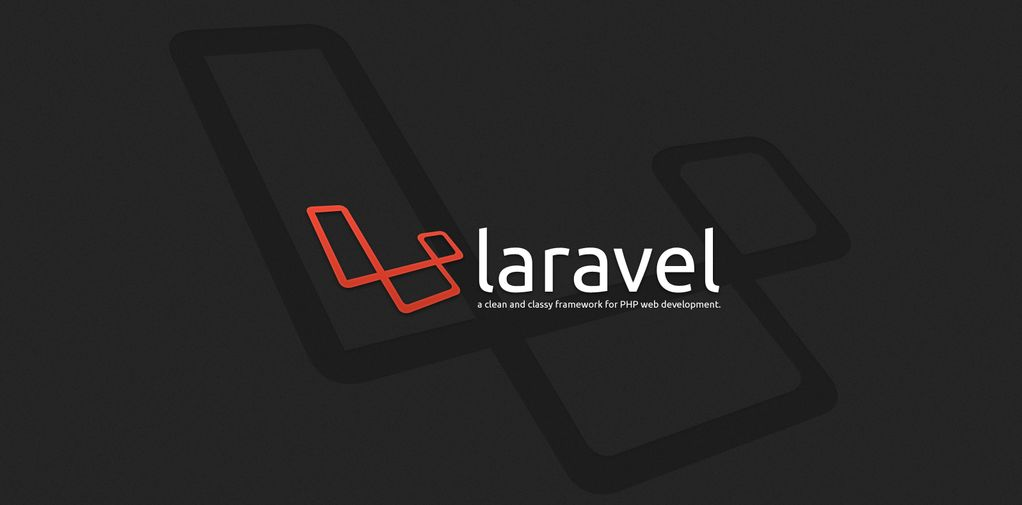
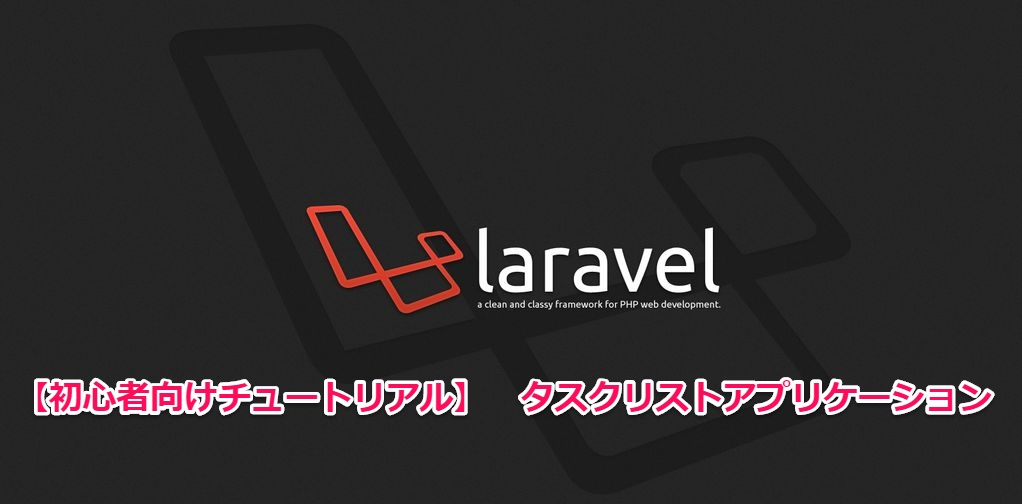
アイキャッチいれたい

diff --git a/public/css/style.css b/public/css/style.css
@@ -142,6 +142,11 @@ nav {
   height: 200px;
   object-fit: cover;
 }
+.like-eye-catch {
+  width: 100%;
+  height: 400px;
+  object-fit: cover;
+}
 .img-contain {
   width: 100%;
   height: 200px;

diff --git a/resources/views/layouts/footer.blade.php b/resources/views/layouts/footer.blade.php
@@ -9,16 +9,15 @@
           {{ Config::get('laravel-room.content') }}
         </p>
       </div>
-      <!--
-      <div class="col l4 offset-12 s12">
+      <!-- <div class="col l4 offset-12 s12">
         <h5 class="white-text">
-          Links
+          author
         </h5>
-        <ul>
-          <li><a href="{{ url('login') }}" class="grey-text text-lighten-3">LOGIN</a></li>
-        </ul>
-      </div>
-      -->
+        <div class="chip">
+          <img src="{{ asset('img/laravel5.jpg') }}" alt="">
+          Tag
+        </div>
+      </div> -->
     </div>
   </div>
   <div class="footer-copyright">

diff --git a/resources/views/articles/show.blade.php b/resources/views/articles/show.blade.php
@@ -15,6 +15,7 @@
         </div>
       </div>
       <div class="article-body">
+        <!-- <img src="{{ asset('img/laravel5.jpg') }}" alt="" class="like-eye-catch"> -->
         {!! $article->body !!}
       </div>
     </div>
